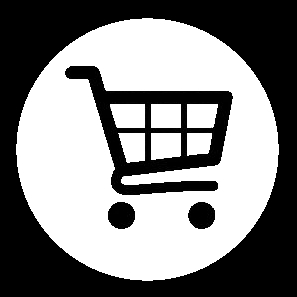
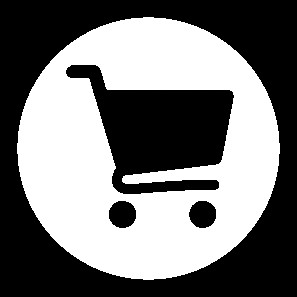
Taxco - Home component and navigator style changes

diff --git a/taxco-app/src/app/components/shared/navigator/navigator.component.html b/taxco-app/src/app/components/shared/navigator/navigator.component.html
@@ -2,49 +2,44 @@
     <div id="navigation-bar">
         <div id="navigation-list">
             <ul id="navbar" class="main-navbar">
-                <!--<li class="languaje-zone">
-                    <a (click)="showRegisterModal()">
-                        <img class="user-logo" src="assets/resources/images/user-profile.png">
-                    </a>          
-                </li>-->
-                <li id="logo" class="navbar-item logo" (click)="openModal('shopping-cart-modal')">
-                    <!--<a routerLink= "/" routerLinkActive="active">-->
-                        <img id="logo-img" 
-                        src="https://firebasestorage.googleapis.com/v0/b/taxco-app.appspot.com/o/logo-blanco.png?alt=media&token=02fd9ea7-3c51-4e72-aaf8-deef8ce1e01d" 
-                        class="navbar-icon">
-                    <!--</a>
-                    <a routerLink= "/" routerLinkActive="active" style="position:absolute"><img id="logo-img-hover" src="assets/resources/images/logo-negro.png" class="navbar-icon"></a>-->
-                </li>
-                 
-                <li class="navbar-item">
-                    <a class="taxco-navbar-text" routerLink= "/" routerLinkActive="active">Inicio</a>
-                </li>       
-                <li class="navbar-item">
-                    <a class="taxco-navbar-text" routerLink= "/aboutUs" routerLinkActive="active">Sobre nosotros</a>
-                </li>
-                <li class="navbar-item">
-                    <a class="taxco-navbar-text" routerLink= "/gallery" routerLinkActive="active">Galería</a>
-                </li> 
-                <li class="navbar-item">
-                    <a class="taxco-navbar-text" routerLink= "/shop" routerLinkActive="active">Tienda</a>
-                </li>
-                <li class="user-zone">
-                    <a (click)="openModal('custom-modal-1')">
-                        <img class="user-logo" 
-                            src="https://firebasestorage.googleapis.com/v0/b/taxco-app.appspot.com/o/user-profile.png?alt=media&token=c650d418-55bf-4bde-b1ea-167abe085470">
-                    </a>          
-                </li>
-                <li class="user-zone">
-                    <a (click)="openModal('custom-modal-1')">
-                        <img class="user-logo" 
-                            src="https://firebasestorage.googleapis.com/v0/b/taxco-app.appspot.com/o/user-profile.png?alt=media&token=c650d418-55bf-4bde-b1ea-167abe085470">
-                    </a>          
-                </li>
-                <li class="hamburger">
-                    <img class="menu-icon" 
-                        src="https://firebasestorage.googleapis.com/v0/b/taxco-app.appspot.com/o/menu-icon.png?alt=media&token=1fafe8d1-0ac3-4268-a09c-fc2702909425" 
-                        (click)="showMenu()">
-                </li>                                
+                    <li id="logo" class="navbar-item logo" routerLink= "/" routerLinkActive="active">
+                        <!--<a routerLink= "/" routerLinkActive="active">-->
+                            <img id="logo-img" 
+                            src="https://firebasestorage.googleapis.com/v0/b/taxco-app.appspot.com/o/logo-blanco.png?alt=media&token=02fd9ea7-3c51-4e72-aaf8-deef8ce1e01d" 
+                            class="navbar-icon">
+                        <!--</a>
+                        <a routerLink= "/" routerLinkActive="active" style="position:absolute"><img id="logo-img-hover" src="assets/resources/images/logo-negro.png" class="navbar-icon"></a>-->
+                    </li>
+                    
+                    <li class="navbar-item">
+                        <a class="taxco-navbar-text" routerLink= "/" routerLinkActive="active">Inicio</a>
+                    </li>       
+                    <li class="navbar-item">
+                        <a class="taxco-navbar-text" routerLink= "/aboutUs" routerLinkActive="active">Sobre nosotros</a>
+                    </li>
+                    <li class="navbar-item">
+                        <a class="taxco-navbar-text" routerLink= "/gallery" routerLinkActive="active">Galería</a>
+                    </li> 
+                    <li class="navbar-item">
+                        <a class="taxco-navbar-text" routerLink= "/shop" routerLinkActive="active">Tienda</a>
+                    </li>
+                    <li class="user-zone navbar-item">
+                        <a (click)="openModal('custom-modal-1')">
+                            <img class="list-logo user-logo" 
+                                src="https://firebasestorage.googleapis.com/v0/b/taxco-app.appspot.com/o/user-icon.png?alt=media&token=c471b387-8890-400b-ba80-d9cf75382b4e">
+                        </a>          
+                    </li>
+                    <li class="cart-zone navbar-item">
+                        <a (click)="openModal('shopping-cart-modal')">
+                            <img class="list-logo cart-logo" 
+                                src="https://firebasestorage.googleapis.com/v0/b/taxco-app.appspot.com/o/shopping-cart-icon.png?alt=media&token=86535265-ffc4-4642-a550-c97ee7a872a4">
+                        </a>          
+                    </li>
+                    <li class="hamburger">
+                        <img class="menu-icon" 
+                            src="https://firebasestorage.googleapis.com/v0/b/taxco-app.appspot.com/o/menu-icon.png?alt=media&token=1fafe8d1-0ac3-4268-a09c-fc2702909425" 
+                            (click)="showMenu()">
+                    </li>                              
             </ul>
         </div>
         

diff --git a/taxco-app/src/app/components/shared/navigator/navigator.component.scss b/taxco-app/src/app/components/shared/navigator/navigator.component.scss
@@ -9,8 +9,7 @@
     display: table;
     height: 100px;
     width: 80%;
-    margin-left: auto;
-    margin-right: auto;
+    margin: auto;
 }
 
 .navigation-list {
@@ -21,8 +20,15 @@
 
 .main-navbar{
     padding:0;
-    width: 960px;
+    width: 80%;
     margin:auto;
+    list-style: none;
+}
+
+.list-logo {
+    margin-bottom: -20px;
+    float: right;
+    width: 65px;
 }
 
 .scrolled {
@@ -35,15 +41,17 @@
     border-radius: 0px 0px 20px 20px;
     z-index: 97;
     li{
-        height: 65px;
+        height: 45px;
         a {
-            line-height: 60px;
             &:hover{
                 background: white;
                 color: #333;
                 height: 57px;
             }
         }
+    }
+    .user-zone, .cart-zone {
+        margin-top: 0px;
     }
 }
 
@@ -55,8 +63,13 @@
 .navbar-item{
     display: inline-block;
     text-decoration: none;
-    list-style-type: none;
-    width: 180px;
+    width: 150px;
+}
+
+.user-zone, .cart-zone {
+    float: right;
+    width: 80px;
+    margin-top: 20px;
 }
 
 .logo{
@@ -73,7 +86,7 @@
     line-height: 80px;
     text-align: center; 
     font-family: gabriola;
-    font-size: 30px;
+    font-size: 33px;
     text-decoration: none;
     &:hover {
         background: white;
@@ -90,19 +103,7 @@
     display: none;
 }
 
-.user-zone {
-    list-style: none;
-    width: 30px;
-    float: right;
-    margin-top: 30px;
-    margin-right: -50px;
-}
-
-.user-logo {
-    width: 40px;
-}
-
-@media screen and (max-width:1200px){
+@media screen and (max-width:1125px){
 
     #header{   
         height: 65px;
@@ -134,6 +135,7 @@
     .logo{
         display: inline;
     }
+    
     .hamburger{
         float: right;
         display: inline;    
@@ -186,6 +188,10 @@
 
     .last-item{
         border-bottom: #333 solid 1px;
+    }
+
+    .list-logo {
+        width: 40px;
     }
 }
 
